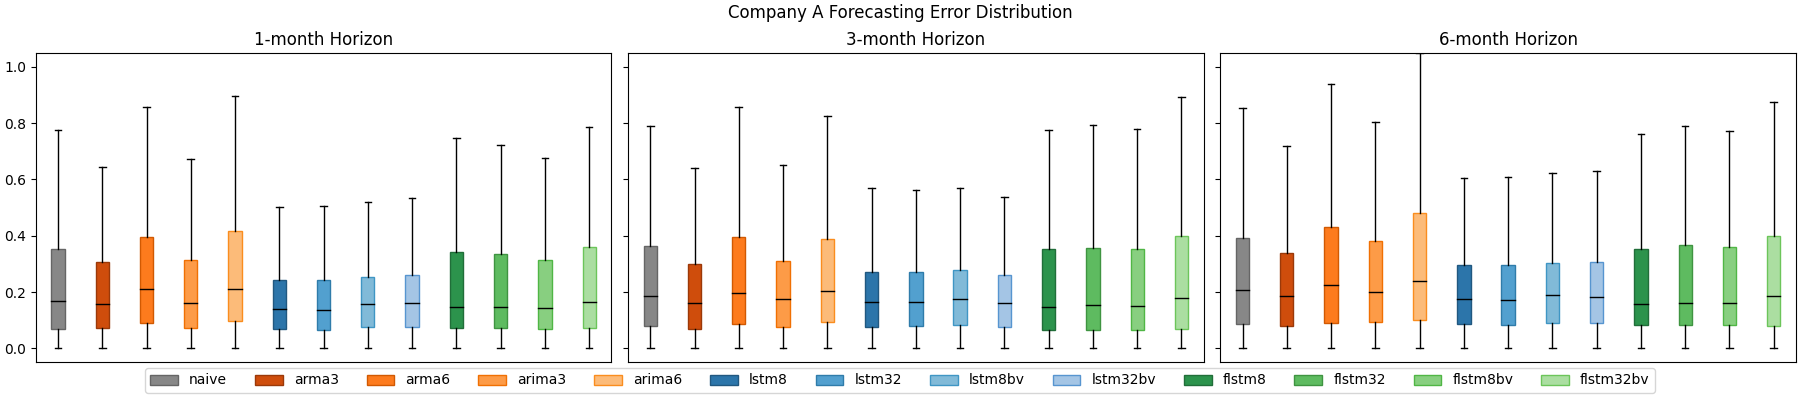
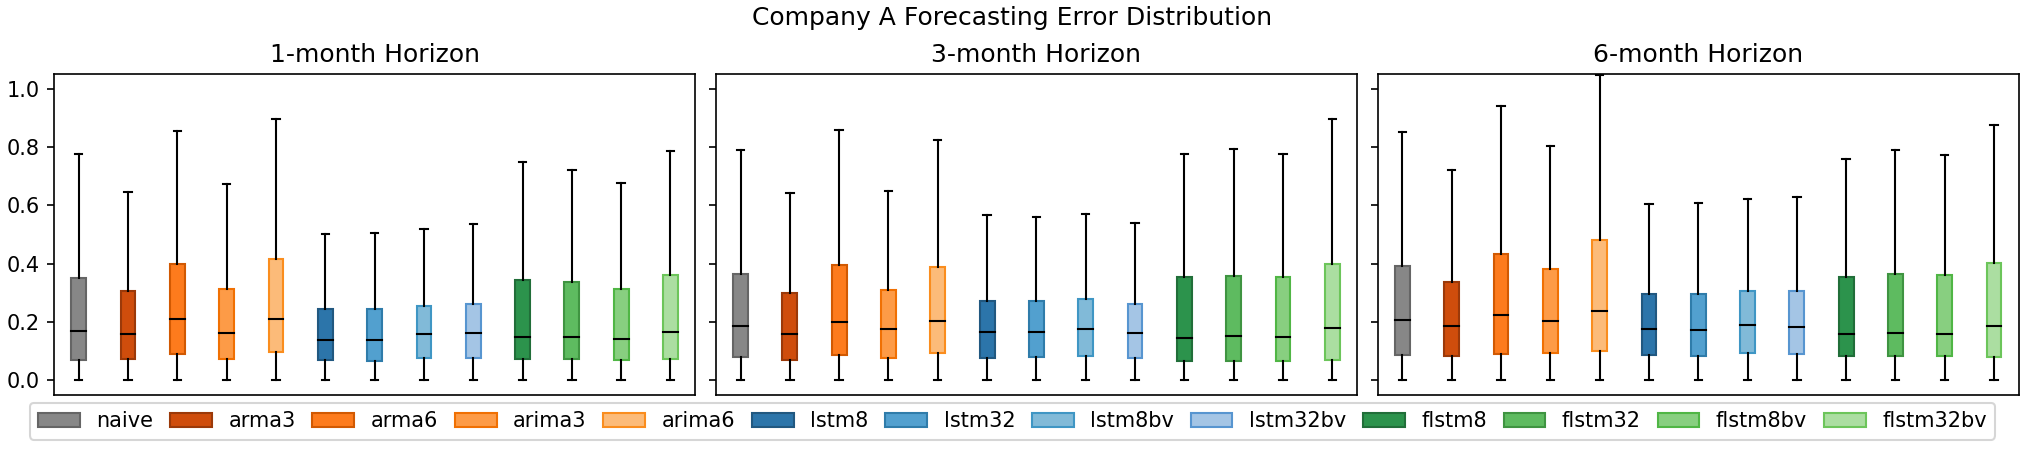
Increased font size in `error_distr_box` plots

Changed region(s): [[0.0, 0.0, 1.0, 0.99]]

diff --git a/src/plotting/plot_err_distr_box.py b/src/plotting/plot_err_distr_box.py
@@ -13,11 +13,11 @@ from run_forecast import ForecastModel
 
 
 def _make_plot(company_name: str, horizons: List[int], errs_per_forecast_model: Dict[ForecastModel, ndarray],
-               scale: float = 4,
+               scale: float = 3.,
                ):
     fig, axes = plt.subplots(
         nrows=1, ncols=len(horizons), sharey="all",
-        figsize=(len(horizons) * scale * 1.5, scale), dpi=100,
+        figsize=(len(horizons) * scale * 1.5, scale), dpi=150,
         layout="constrained",
     )
 
@@ -47,6 +47,7 @@ def _make_plot(company_name: str, horizons: List[int], errs_per_forecast_model: 
         boxes, [m.name.lower() for m in errs_per_forecast_model.keys()],
         loc="outside lower center",
         ncols=len(errs_per_forecast_model.keys()),
+        columnspacing=0.8,
     )
     fig.suptitle(f"Company {company_name} Forecasting Error Distribution")
 
